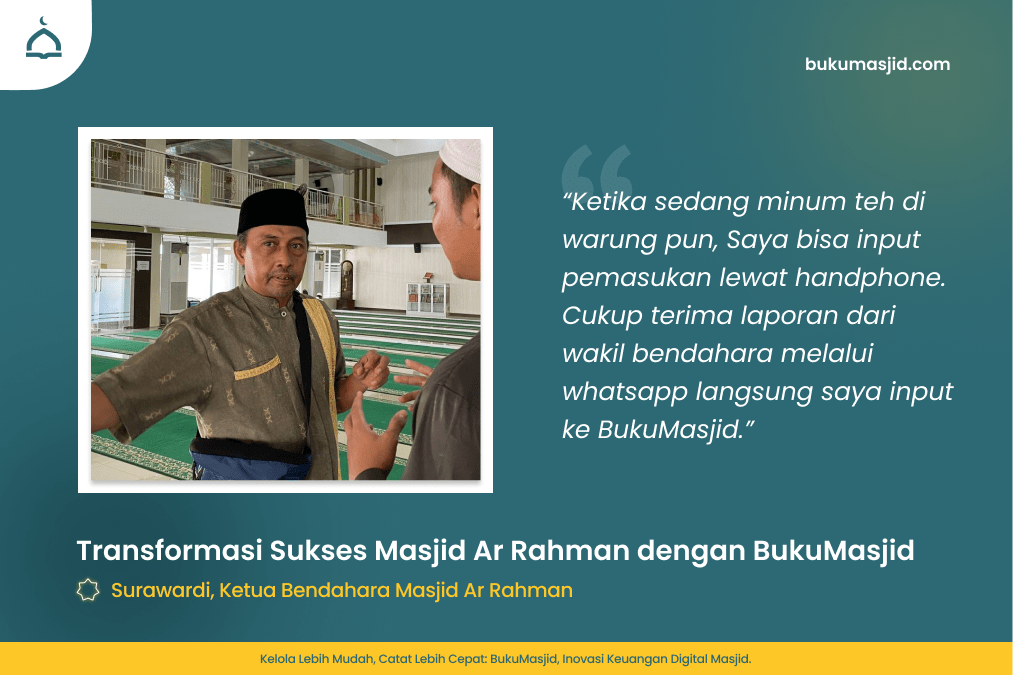
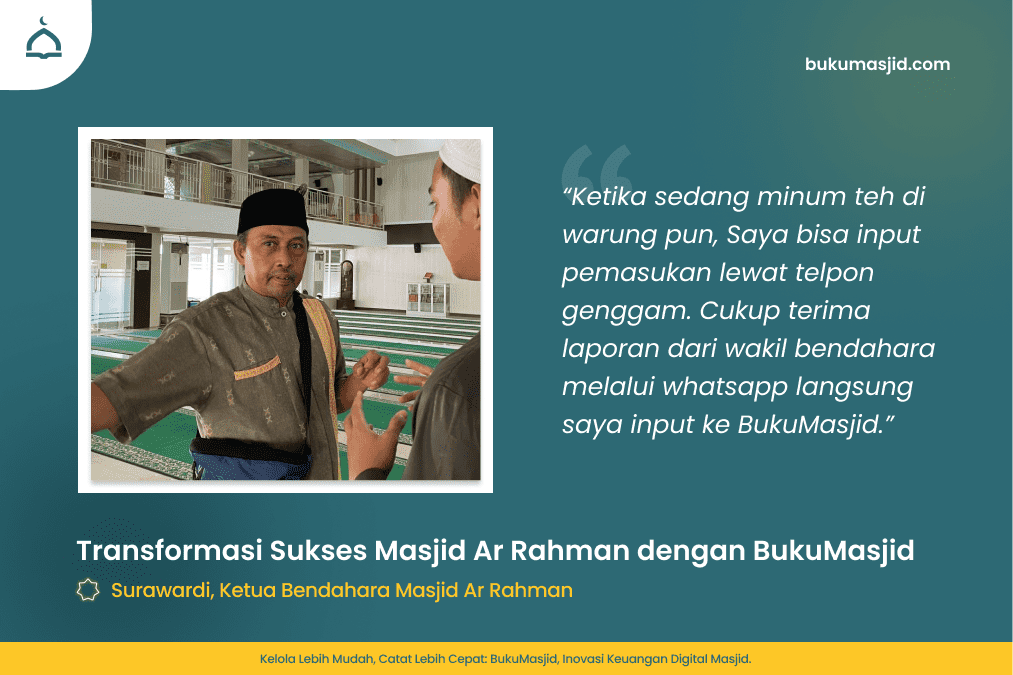
Fixing Article Tranformasi

diff --git a/layouts/index.html b/layouts/index.html
@@ -28,11 +28,11 @@
           <p>Input Transaksi melalui satu tombol, mempermudah bendahara masjid/mushalla untuk memasukkan data pemasukan dan pengeluaran keuangan sesuai dengan kategori/kelompok transaksi.</p>
         </div>
         <div class="col-lg-5">
-          <h2 class="h4">Laporan Keuangan Komprehensif</h2>
+          <h2 class="h4">Laporan Keuangan Terpadu</h2>
           <p>Keuangan Terkelola dengan Sempurna: Laporan Bulanan, Kategori, dan Pekan menyajikan informasi lengkap tentang saldo, pemasukan, pengeluaran, serta sisa saldo, memudahkan pemantauan kas masjid dengan efisien.</p>
         </div>
         <div class="col-lg-5">
-          <h2 class="h4">Buku Catatan Beragam Kebutuhan</h2>
+          <h2 class="h4">Buku Kas Beragam Kebutuhan</h2>
           <p>Pencatatan Keuangan Beragam Kegiatan: Mencatat setiap kegiatan secara terpisah dalam buku catatan keuangan, mulai dari operasional harian masjid, infaq buka puasa Senin/Kamis, hingga kegiatan qurban dan lainnya. Dapat disesuaikan sesuai kebutuhan masjid Anda.</p>
         </div>
       </div>

diff --git a/content/id/blog/2024-01-19-transformasi-sukses-masjid-ar-rahman.md b/content/id/blog/2024-01-19-transformasi-sukses-masjid-ar-rahman.md
@@ -15,35 +15,40 @@ homepage: false
 ---
 ![Buku Masjid Ar Rahman Banjarmasin, Laporan Keuangan Masjid Digital](images/blog/2024-01-19-transformasi-sukses-masjid-ar-rahman_01.png "Buku Masjid Ar Rahman Banjarmasin")
 
-Dalam era digital yang terus berkembang, banyak masjid menghadapi tantangan dalam manajemen keuangan mereka. Salah satu masjid yang berhasil mengatasi kendala tersebut adalah Masjid Ar Rahman di Jl. Kampung Melayu Banjarmasin. Surawardi, bendahara masjid ini, telah berbagi pengalamannya tentang bagaimana BukuMasjid membantu mereka mengelola keuangan dengan lebih mudah dan terstruktur.
-
-Masjid Ar Rahman terletak di jl. Kampung Melayu Banjarmasin menjadi tempat lebih dari 1000 jamaah dalam melaksanakan ibadah tiap harinya. Tantangan besar muncul dalam mencatat arus keuangan masjid.
+Masjid Ar Rahman Banjarmasin adalah salah satu masjid yang menginginkan perubahan pengelolaan keuangan agar lebih efisien dan hemat waktu. Tim BukuMasjid menemui Pak Surawardi, bendahara masjid ini, beliau menceritakan bagaimana repotnya jadi bendahara dalam urusan catat-mencatat, mengelompokkan transaksi setiap hari dan membuat laporan keuangan tiap awal bulan.
 
 #### Permasalahan yang dihadapi Bendahara Masjid
 
-Sebelum menggunakan sistem BukuMasjid, Surawardi merasakan kesulitan dalam mencatat setiap pemasukan dan pengeluaran masjid dengan rapi terutama saat membuat laporan bulanan. **Aktivitas transaksi yang cukup tinggi, pemasukan kotak infaq harian hingga pengajian dan pengeluaran operasional, membuat beliau cukup kewalahan**. Karena sehari-hari beliau juga bekerja sebagai akuntan pajak di sebuah perusahaan.
+Kata beliau, banyak orang keberatan ditunjuk jadi bendahara masjid karena repot, harus telaten mencatat transaksi, buat laporan pertanggung jawaban, kadang mesti begadang menyusun dan mengelompokkan transaksi. Sementara sehari-hari juga ada kesibukan mencari nafkah.
 
-Kesulitan beliau berpuncak ketika **harus begadang untuk membuat laporan kas setiap awal bulan**, memastikan semua pencatatan transaksi tidak ada yang terlewat. Dan keesokan harinya beliau tetap harus berangkat kerja seperti biasa.
+#### Tahap Riset pengembangan BukuMasjid
 
-Berangkat dari keresahan dan kesulitan pengelolaan keuangan ini, Surawardi pada akhirnya menggunakan Buku Masjid untuk mempermudah pengelolaan keuangan masjid Ar Rahman.
+Dari beliau lah pertama kali tim BukuMasjid melakukan riset (waktu itu belum ada nama BukuMasjid), kami menggali bagaimana metode yang umumnya dilakukan oleh bendahara masjid dalam mencatat pemasukan dan pengeluaran harian, apa saja kelompok/kategori tiap transaksi, bagaimana bendahara melaporkan catatan transaksi tiap pekan ke dewan pengurus masjid, dan bagaimana membuat laporan keuangan bulanan yang biasa ditempel di papan pengumuman masjid.
 
-Bulan pertama menggunakan sistem BukuMasjid, Surawardi mengalami perubahan signifikan dalam manajemen keuangan masjid. Beliau menceritakan bagaimana **mudahnya mencatat pemasukan dan pengeluaran kas masjid cukup melalui handphone saja**. "Ketika sedang minum teh di warung pun, Saya bisa input pemasukan lewat handphone. Cukup terima laporan dari wakil bendahara melalui whatsapp langsung saya input ke BukuMasjid" diterangkan Surawardi.
+#### Sistem BukuMasjid Tahap Pertama Selesai
 
-#### Manfaat Setelah Menggunakan BukuMasjid
+Setelah riset dan pengembangan selama 3 bulan, proyek tahap pertama selesai. Alhamdulillah pak Surawardi langsung menggunakan sistem BukuMasjid untuk mencatat transaksi harian masjid di bulan itu. **Setiap transaksi yang diinput langsung masuk ke laporan per pekan dan laporan bulan berjalan**. Sejak saat itu beliau tidak perlu lagi meluangkan waktu secara khusus untuk membuat laporan per pekan dan per bulan. Karena sistem BukuMasjid *menggenerate* laporan secara otomatis setiap kali ada input pemasukan dan pengeluaran.
 
-Selama empat bulan terakhir, Masjid Ar Rahman menjadi pengguna aktif BukuMasjid. Surawardi merasakan berbagai kemudahan, termasuk struktur pencatatan keuangan yang lebih terorganisir, kemudahan input melalui ponsel, **pembuatan otomatis laporan keuangan bulanan dalam format PDF**, dan pelacakan pengeluaran berlebihan melalui daftar pengeluaran keseluruhan.
+"Sekarang sambil minum teh di warung pun saya bisa catat pemasukan kotak infaq saat dapat laporan dari wakil bendahara. Ketika ketua masjid butuh laporan keuangan, saya tinggal *generate* PDF, lalu saya kirim ke Ketua. Dan semuanya saya lakukan hanya melalui telpon genggam. Sangat ringkas, sangat mempermudah pekerjaan bendahara." kata pak Surawardi.
 
-Surawardi cukup optimis bahwa dengan menggunakan sistem BukuMasjid, Pengelola Masjid tidak perlu khawatir lagi dengan beban dan pekerjaan yang rumit. Beliau mengapresiasi inovasi tim BukuMasjid dalam menciptakan solusi digital untuk pencatatan keuangan masjid.
-
-"Sistem BukuMasjid sangat membantu saya ketika melaksanakan tugas sebagai Bendahara Masjid. Dengan sistem ini, saya dapat menjalankan aktivitas utama saya sebagai pegawai akuntan pajak tanpa terganggu. Saya berharap bahwa ke depannya, kehadiran sistem BukuMasjid akan memberikan kemudahan kepada semua pengurus Masjid. Mereka tidak perlu lagi khawatir dengan beban besar dan kompleksitas pekerjaan yang harus dihadapi, karena **pencatatan keuangan Masjid yang rumit telah berhasil digantikan dengan pencatatan laporan keuangan secara digital yang mudah**, ini sebuah inovasi yang bagus dari tim BukuMasjid" diungkapkan Surawardi.
+Alhamdulillah sistem BukuMasjid bisa mempermudah pekerjaan bendahara, sehingga beliau lebih fokus ke hal lain yang lebih penting. Urusan catatan dan laporan keuangan, BukuMasjid solusinya. Jika ada pemasukan, input di BukuMasjid. Ada pengeluaran, input di BukuMasjid. Mau lihat laporan bulan ini, lihat di BukuMasjid. Mau lihat laporan bulan-bulan lalu, buka di BukuMasjid. *BukuMasjid: Solusi praktis dalam genggaman.*
 
 #### Rencana Pengembangan Mendatang
+
 Tim BukuMasjid saat ini tengah **mempersiapkan berbagai fitur menyambut Bulan Ramadhan, Idul Fitri dan Idul Adha**. Dalam waktu dekat, BukuMasjid akan menyediakan fitur jadwal donatur buka puasa ramadhan, pencatatan zakat fitrah dan fidyah, lengkap dengan pendisitribusiannya. Selain itu, akan tersedia juga fitur pencatatan qurban beserta otomatisasi pembuatan kwitansi pembayaran.
 
-###### Ayo Buktikan! Kemudahan Pengelolaan 3X Lebih Cepat dan Efisien
+##### *Ayo Buktikan! Kemudahan Pengelolaan 3X Lebih Cepat dan Efisien*
 
-Mengalami keresahan yang serupa dengan Pak Surawardi? Atau merasa bahwa Laporan Keuangan Masjid Anda belum terstruktur dengan baik? BukuMasjid dapat memberikan kemudahan dan efisiensi pencatatan laporan keuangan masjid Anda hingga 3x lipat
+**Tentang BukuMasjid**
 
-Hubungi kami untuk menggunakan sistem BukuMasjid, **gratis 2 bulan penyesuaian bagi seluruh pengguna baru**. Kontak kami melalui Whatsapp.  <a href="https://wa.me/{{< whatsapp_number >}}" target="_blank">wa.me/{{< whatsapp_number >}}</a>
+Oh ya, bagi yang belum tahu, BukuMasjid adalah sofware sistem ... . Software ini gratis bisa didapatkan source codenya di https://github.com/buku-masjid/buku-masjid panduan install dan cara penggunaannya tersedia di sini https://bukumasjid.com/
 
-Kelola Dengan Mudah, Catat Lebih Cepat: BukuMasjid, Inovasi Keuangan Digital Masjid.
+**Ada pertanyaan/butuh bantuan?**
+
+Bagi pengurus masjid yang ingin tanya-tanya atau butuh bantuan, bisa menghubungi tim BukuMasjid melalui Whatsapp.
+
+Tim BukuMasjid juga meyediakan layanan full maintenance/pemeliharaan sehingga pengurus masjid tinggal pakai saja, juga silahkan menghubungi tim BukuMasjid melalui Whatsapp.
+
+Whatsapp BukuMasjid <a href="https://wa.me/{{< whatsapp_number >}}" target="_blank">wa.me/{{< whatsapp_number >}}</a>
+
+__*Kelola Dengan Mudah, Catat Lebih Cepat: BukuMasjid, Inovasi Keuangan Digital Masjid.*__
